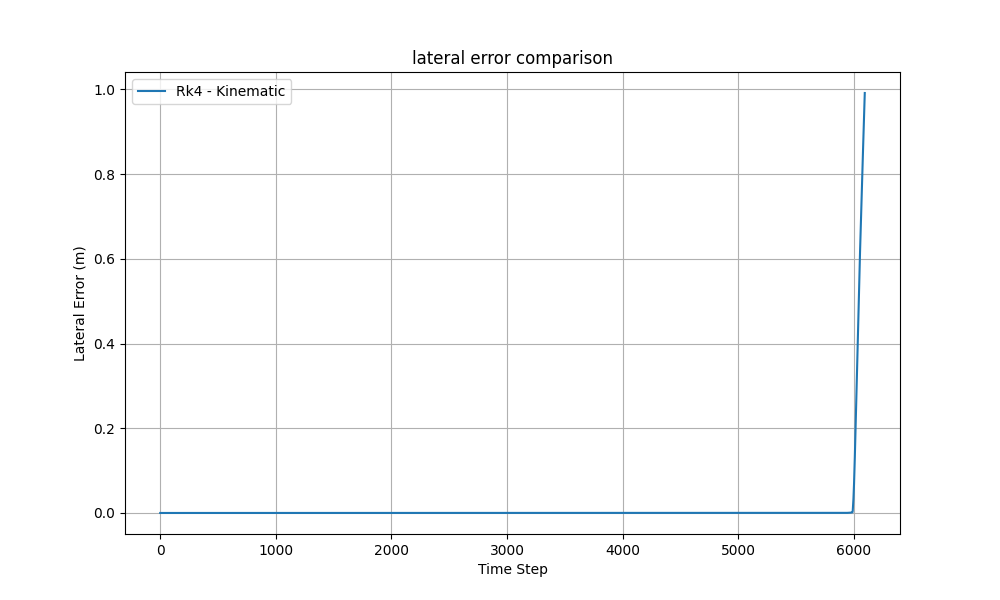
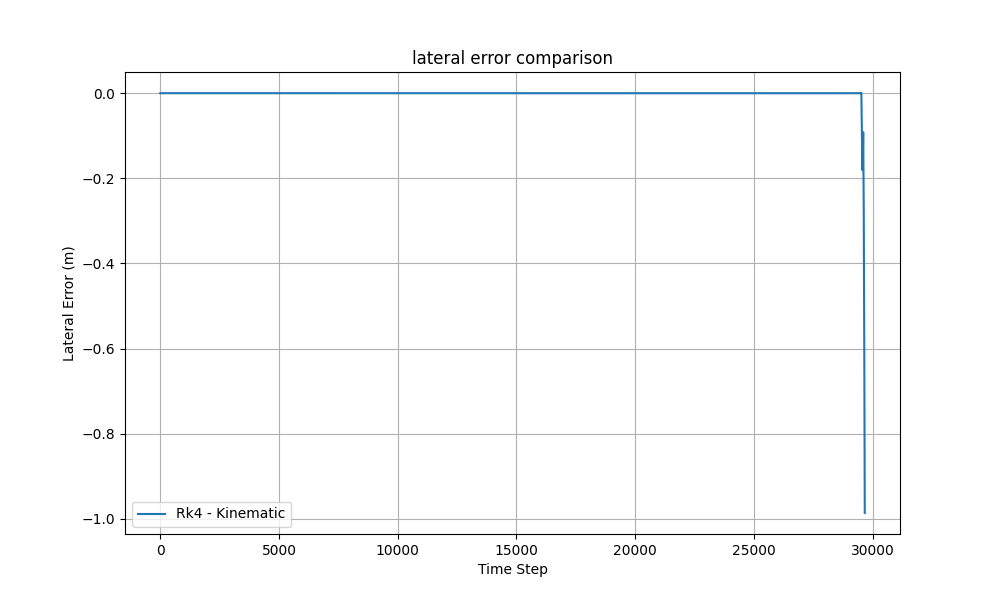
add figures

diff --git a/parameters.py b/parameters.py
@@ -2,13 +2,13 @@ class SimulationParameters:
     dt = 0.001                  # Time step (s)
     ax = 0.0                    # Constant longitudinal acceleration (m/s^2)
     steer = 0.0                 # Constant steering angle (rad)
-    sim_time = 90.0             # Simulation duration in seconds
+    sim_time = 180.0             # Simulation duration in seconds
     steps = int(sim_time / dt)  # Simulation steps (30 seconds)
-    target_speed = 20.0
-    controller = 'mpc'
-    figures_path = 'figures/general'
+    target_speed = 10.0
+    controller = 'stanley'
+    figures_path = 'figures/exercise2/case1/stanley'
     vehicle_model = [
-        ("rk4", "kinematic"),
+        ("rk4", "nonlinear"),
     ]
 
 
@@ -44,6 +44,6 @@ class StanleyParameters:
 
 class MpcParameters:
     gain_mult = 1
-    T =  1                    # Horizon length in seconds
-    dt = 0.05                 # Horizon timesteps
+    T =  1.5                    # Horizon length in seconds
+    dt = 0.1                 # Horizon timesteps
     N = int(T/dt)             # Horizon total points
